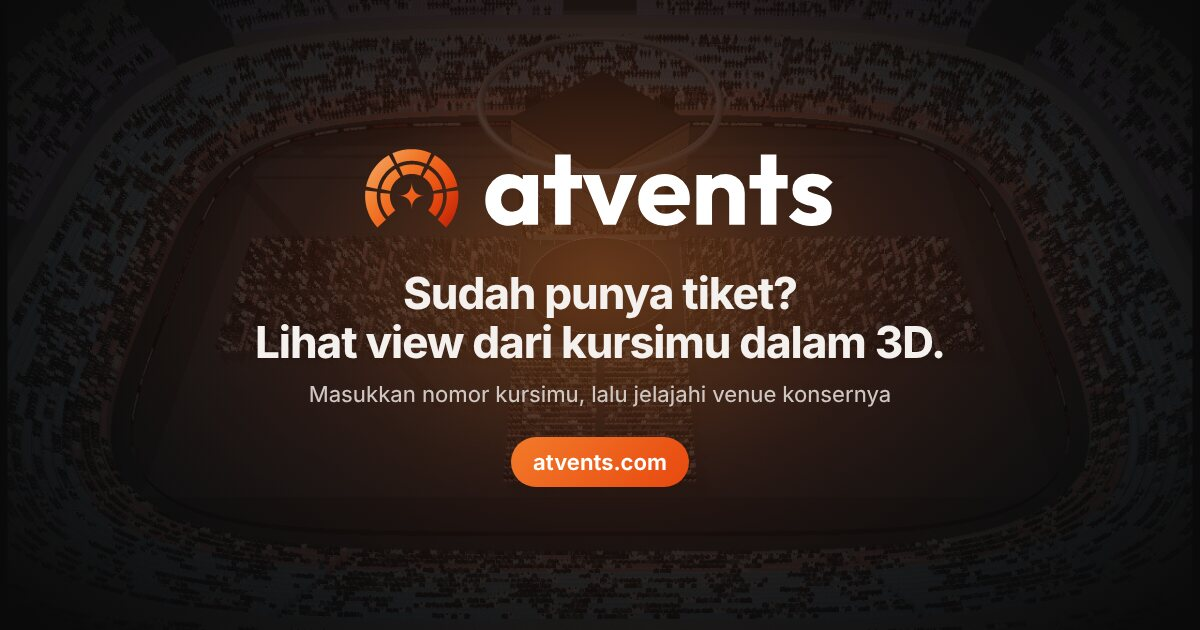
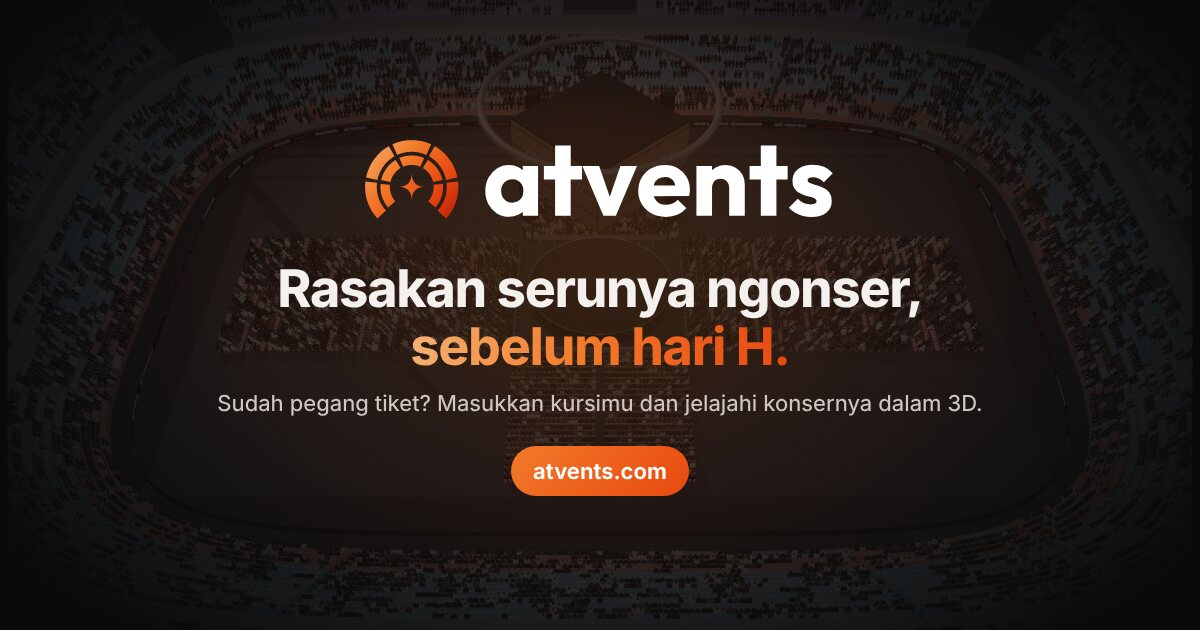
Link preview: Rasakan serunya ngonser, sebelum hari H
Claude-Session: https://claude.ai/code/session_01UCgViviBFGfChqwP28Qps8

Changed region(s): [[0.185, 0.2111, 0.8325, 0.6635], [0.4317, 0.6937, 0.5858, 0.8143]]

diff --git a/index.html b/index.html
@@ -18,17 +18,17 @@
 <meta property="og:url" content="https://atvents.com/">
 <meta property="og:locale" content="id_ID">
 <meta property="og:locale:alternate" content="en_US">
-<meta property="og:title" content="Atvents · Sudah punya tiket? Lihat view dari kursimu dalam 3D">
-<meta property="og:description" content="Masukkan nomor kursimu dan jelajahi venue konsernya dalam 3D: panggung, penonton, dan pandangan dari kursimu sendiri.">
+<meta property="og:title" content="Atvents · Rasakan serunya ngonser, sebelum hari H">
+<meta property="og:description" content="Sudah pegang tiket? Masukkan kursimu dan jelajahi konsernya dalam 3D: panggung, penonton, dan view dari kursimu sendiri.">
 <meta property="og:image" content="https://atvents.com/assets/share/atvents-cover.jpg?v=1">
 <meta property="og:image:secure_url" content="https://atvents.com/assets/share/atvents-cover.jpg?v=1">
 <meta property="og:image:type" content="image/jpeg">
 <meta property="og:image:width" content="1200">
 <meta property="og:image:height" content="630">
-<meta property="og:image:alt" content="Logo Atvents di atas stadion konser 3D, dengan tulisan Sudah punya tiket? Lihat view dari kursimu dalam 3D.">
+<meta property="og:image:alt" content="Logo Atvents di atas stadion konser 3D, dengan tulisan Rasakan serunya ngonser, sebelum hari H.">
 <meta name="twitter:card" content="summary_large_image">
-<meta name="twitter:title" content="Atvents · Sudah punya tiket? Lihat view dari kursimu dalam 3D">
-<meta name="twitter:description" content="Masukkan nomor kursimu dan jelajahi venue konsernya dalam 3D: panggung, penonton, dan pandangan dari kursimu sendiri.">
+<meta name="twitter:title" content="Atvents · Rasakan serunya ngonser, sebelum hari H">
+<meta name="twitter:description" content="Sudah pegang tiket? Masukkan kursimu dan jelajahi konsernya dalam 3D: panggung, penonton, dan view dari kursimu sendiri.">
 <meta name="twitter:image" content="https://atvents.com/assets/share/atvents-cover.jpg?v=1">
 <meta name="twitter:image:alt" content="Logo Atvents di atas stadion konser 3D.">
 <link rel="canonical" href="https://atvents.com/">
